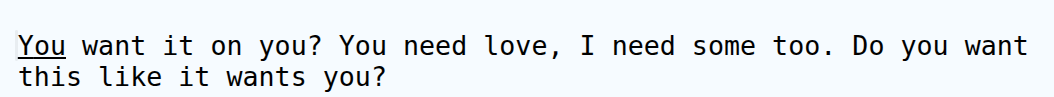
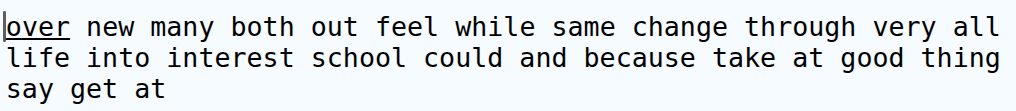
second try

Changed region(s): [[0.0, 0.1237, 1.0, 0.6495], [0.0, 0.6804, 0.3661, 0.9588]]

diff --git a/extractor/main.py b/extractor/main.py
@@ -1,0 +1,16 @@
+import pytesseract
+from PIL import Image
+from pathlib import Path
+from time import sleep
+from pynput.keyboard import Key,Controller
+from time import sleep
+project_root = Path(__file__).parent.parent # give the location of folder
+
+img_loc =  project_root / "assets" / "image.png"
+
+
+text = pytesseract.image_to_string(Image.open(img_loc))
+
+keyboard = Controller()
+sleep(4)
+keyboard.type(text)

diff --git a/gui/gui.py b/gui/gui.py
@@ -7,7 +7,8 @@ root.title("The Title")
 root.geometry("400x300")  # width x height
 
 start_button = tk.Button(root, text="Start",bg="blue", fg="white")
-start_button.pack()
-# Run the app
+start_button.grid()
 
+start_typing = tk.Button(root, text="Start Typing",bg="blue", fg="white")
+start_typing.grid()
 root.mainloop()

diff --git a/typer/type.py b/typer/type.py
@@ -1,0 +1,7 @@
+
+from pynput.keyboard import Key,Controller
+from time import sleep
+
+keyboard = Controller()
+
+keyboard.type("Hello World")
